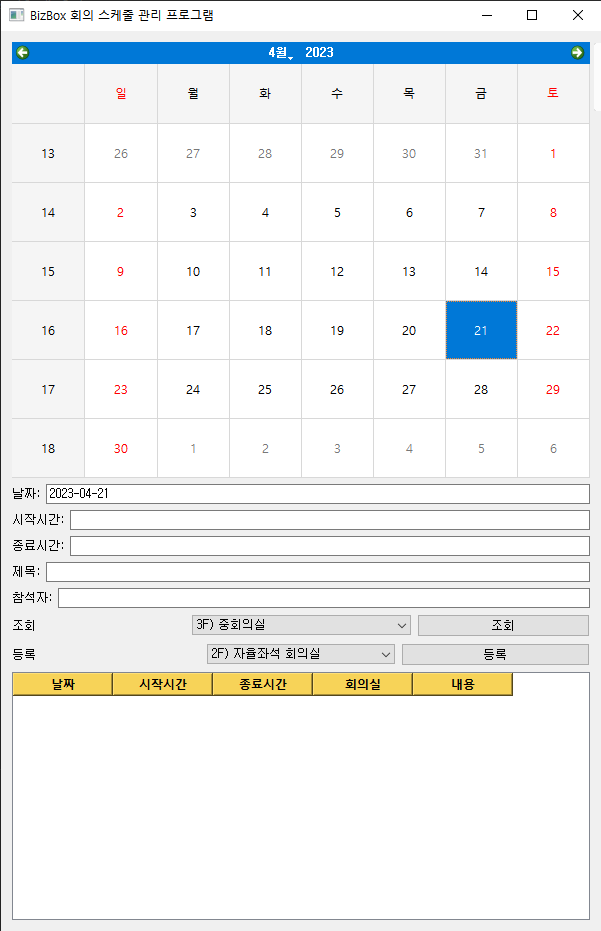
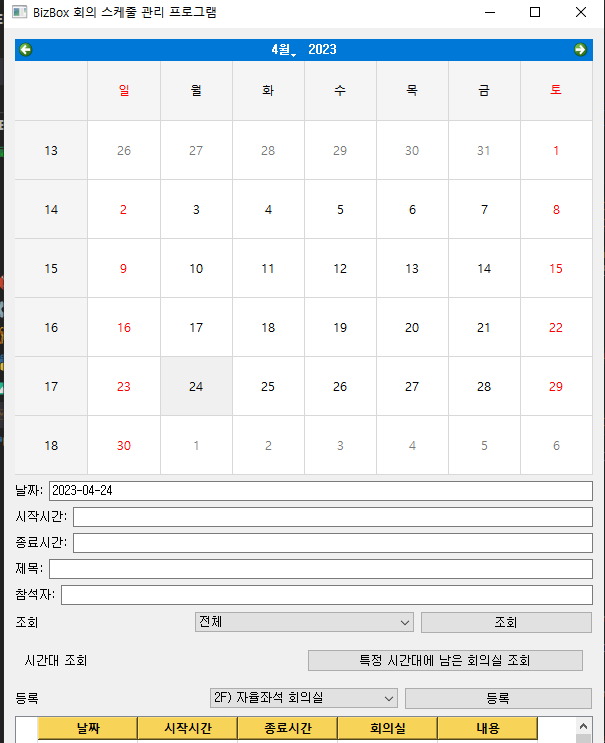
modify readme

diff --git a/README.md b/README.md
@@ -31,6 +31,10 @@ pw=12345
 캘린더에 특정 날짜를 선택하고, 조회 버튼을 누르면 해당 날짜의 회의실 예약 현황을 조회할 수 있습니다.
 조회 버튼 옆에 있는 회의실명을 선택하면, 특정 회의실의 예약 현황을 조회할 수 있습니다.
 
+## 2.1 추가 기능(시간대 조회 기능)
+
+- 날짜, 시작 시간, 종료 시간을 입력하고 버튼(특정 시간대에 남은 회의실 조회)를 클릭하면, 해당 시간대의 회의실 예약 현황과 남은 회의실을 메시지로 알려줄 수 있습니다.
+
 ## 3. 회의실 등록
 시작 시간과 종료 시간과 회의실명을 입력하고, 등록 버튼을 누르면 회의실을 등록할 수 있습니다.
 추가로 다른 참석자들을 추가할 수 있습니다.
